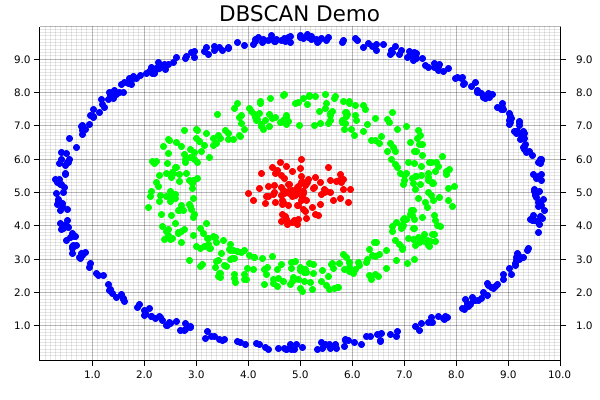
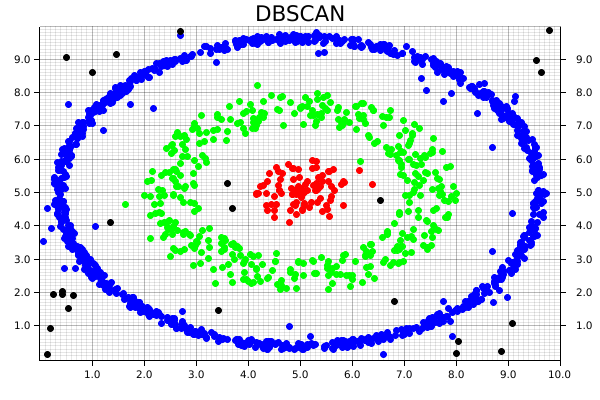
Updates with addl prose, and adds in a stand-alone KMeans comparison with subplots

diff --git a/code/examples/clustering_comparison.rs b/code/examples/clustering_comparison.rs
@@ -1,0 +1,148 @@
+use code::*;
+// ANCHOR: libraries
+// Import the linfa prelude and KMeans algorithm
+use linfa::prelude::*;
+use linfa_clustering::{Dbscan, KMeans};
+// We'll build our dataset on our own using ndarray and rand
+use ndarray::prelude::*;
+// Import the plotters crate to create the scatter plot
+use plotters::prelude::*;
+use rand::prelude::*;
+// ANCHOR_END: libraries
+
+fn main() {
+
+    // ANCHOR: build_chart_base
+    let chart_dims = (900, 400);
+    let root = BitMapBackend::new("../src/clustering_comparison.png", chart_dims).into_drawing_area();
+    root.fill(&WHITE).unwrap();
+    let areas = root.split_by_breakpoints([chart_dims.0 / 2 ], [chart_dims.1]);
+
+    let x_lim = 0.0..10.0f32;
+    let y_lim = 0.0..10.0f32;
+
+    let mut ctx_a = ChartBuilder::on(&areas[0])
+        .set_label_area_size(LabelAreaPosition::Left, 40) // Put in some margins
+        .set_label_area_size(LabelAreaPosition::Right, 40)
+        .set_label_area_size(LabelAreaPosition::Bottom, 40)
+        .caption("DBSCAN", ("sans-serif", 20)) // Set a caption and font
+        .build_cartesian_2d(x_lim.clone(), y_lim.clone())
+        .expect("Couldn't build our ChartBuilder");
+    
+    ctx_a.configure_mesh().draw().unwrap();
+    let root_area_a = ctx_a.plotting_area();
+    
+    let mut ctx_b = ChartBuilder::on(&areas[1])
+        .set_label_area_size(LabelAreaPosition::Left, 40) // Put in some margins
+        .set_label_area_size(LabelAreaPosition::Right, 40)
+        .set_label_area_size(LabelAreaPosition::Bottom, 40)
+        .caption("KMeans", ("sans-serif", 20)) // Set a caption and font
+        .build_cartesian_2d(x_lim, y_lim)
+        .expect("Couldn't build our ChartBuilder");
+
+
+    ctx_b.configure_mesh().draw().unwrap();
+    let root_area_b = ctx_b.plotting_area();
+
+    // Plot space for both algos should be set up by this point
+
+    // Now going to creat data that will be shared for both
+    let circle: Array2<f32> = create_circle([5.0, 5.0], 1.0, 100); // Cluster 0
+    let donut_1: Array2<f32> = create_hollow_circle([5.0, 5.0], [2.0, 3.0], 400); // Cluster 1
+    let donut_2: Array2<f32> = create_hollow_circle([5.0, 5.0], [4.5, 4.75], 1000); // Cluster 2
+    let noise: Array2<f32> = create_square([5.0, 5.0], 10.0, 100); // Random noise
+
+    let data = ndarray::stack(Axis(0), &[circle.view(), donut_1.view(), donut_2.view(), noise.view()])
+        .expect("An error occurred while stacking the dataset");
+
+    // DBSCAN STARTS HERE
+
+    let min_points = 20;
+    let clusters = Dbscan::params(min_points).tolerance(0.6).transform(&data);
+    println!("{:#?}", clusters);
+
+    check_array_for_plotting(&circle); // Panics if that's not true
+
+    for i in 0..data.shape()[0] {
+        let coordinates = data.slice(s![i, 0..2]);
+
+        let point = match clusters[i] {
+            Some(0) => Circle::new(
+                (coordinates[0], coordinates[1]),
+                3,
+                ShapeStyle::from(&RED).filled(),
+            ),
+            Some(1) => Circle::new(
+                (coordinates[0], coordinates[1]),
+                3,
+                ShapeStyle::from(&GREEN).filled(),
+            ),
+            Some(2) => Circle::new(
+                (coordinates[0], coordinates[1]),
+                3,
+                ShapeStyle::from(&BLUE).filled(),
+            ),
+            // Making sure our pattern-matching is exhaustive
+            _ => Circle::new(
+                (coordinates[0], coordinates[1]),
+                3,
+                ShapeStyle::from(&BLACK).filled(),
+            ),
+        };
+
+        root_area_a
+            .draw(&point)
+            .expect("An error occurred while drawing the point!");
+    }
+    // ANCHOR_END: plot_points
+
+    // KMEANS STARTS HERE
+
+    let dataset = DatasetBase::from(data);
+    let rng = thread_rng(); // Random number generator
+    let n_clusters = 3;
+    let model = KMeans::params_with_rng(n_clusters, rng)
+        .max_n_iterations(200)
+        .tolerance(1e-5)
+        .fit(&dataset)
+        .expect("Error while fitting KMeans to the dataset");
+
+    let dataset = model.predict(dataset);
+
+    for i in 0..dataset.records.shape()[0] {
+        let coordinates = dataset.records.slice(s![i, 0..2]);
+
+        let point = match dataset.targets[i] {
+            0 => Circle::new(
+                (coordinates[0], coordinates[1]),
+                3,
+                ShapeStyle::from(&RED).filled(),
+            ),
+            1 => Circle::new(
+                (coordinates[0], coordinates[1]),
+                3,
+                ShapeStyle::from(&GREEN).filled(),
+            ),
+
+            2 => Circle::new(
+                (coordinates[0], coordinates[1]),
+                3,
+                ShapeStyle::from(&BLUE).filled(),
+            ),
+            // Making sure our pattern-matching is exhaustive
+            _ => Circle::new(
+                (coordinates[0], coordinates[1]),
+                3,
+                ShapeStyle::from(&BLACK).filled(),
+            ),
+        };
+
+        root_area_b
+            .draw(&point)
+            .expect("An error occurred while drawing the point!");
+    }
+
+
+}
+
+

diff --git a/code/examples/dbscan.rs b/code/examples/dbscan.rs
@@ -11,19 +11,24 @@ use plotters::prelude::*;
 
 fn main() {
     // ANCHOR: create_circles
+    // The goal is to be able to find each of these as distinct, and exclude some of the noise
     let circle: Array2<f32> = create_circle([5.0, 5.0], 1.0, 100); // Cluster 0
     let donut_1: Array2<f32> = create_hollow_circle([5.0, 5.0], [2.0, 3.0], 400); // Cluster 1
-    let donut_2: Array2<f32> = create_hollow_circle([5.0, 5.0], [4.5, 4.75], 400); // Cluster 2
+    let donut_2: Array2<f32> = create_hollow_circle([5.0, 5.0], [4.5, 4.75], 1000); // Cluster 2
+    let noise: Array2<f32> = create_square([5.0, 5.0], 10.0, 100); // Random noise
 
-    let data = ndarray::stack(Axis(0), &[circle.view(), donut_1.view(), donut_2.view()])
+    let data = ndarray::stack(Axis(0), &[circle.view(), donut_1.view(), donut_2.view(), noise.view()])
         .expect("An error occurred while stacking the dataset");
+    // ANCHOR_END: create_circles
 
-    // ANCHOR: create_model
-    // let dataset = DatasetBase::from(data);
+    // ANCHOR: create_and_run_model
+    // Compared to linfa's KMeans algorithm, the DBSCAN implementation can operate
+    // directly on an ndarray `Array2` data structure, so there's no need to convert it
+    // into the linfa-native `Dataset` first.
     let min_points = 20;
-    let clusters = Dbscan::params(min_points).tolerance(0.95).transform(&data);
+    let clusters = Dbscan::params(min_points).tolerance(0.6).transform(&data);
     println!("{:#?}", clusters);
-    // ANCHOR_END: create_model
+    // ANCHOR_END: create_and_run_model
 
     // ANCHOR: build_chart_base
     let root = BitMapBackend::new("../src/dbscan.png", (600, 400)).into_drawing_area();
@@ -36,7 +41,7 @@ fn main() {
         .set_label_area_size(LabelAreaPosition::Left, 40) // Put in some margins
         .set_label_area_size(LabelAreaPosition::Right, 40)
         .set_label_area_size(LabelAreaPosition::Bottom, 40)
-        .caption("DBSCAN Demo", ("sans-serif", 25)) // Set a caption and font
+        .caption("DBSCAN", ("sans-serif", 25)) // Set a caption and font
         .build_cartesian_2d(x_lim, y_lim)
         .expect("Couldn't build our ChartBuilder");
     // ANCHOR_END: build_chart_base
@@ -72,10 +77,11 @@ fn main() {
                 ShapeStyle::from(&BLUE).filled(),
             ),
             // Making sure our pattern-matching is exhaustive
+            // Note that we can define a custom color using RGB
             _ => Circle::new(
                 (coordinates[0], coordinates[1]),
                 3,
-                ShapeStyle::from(&BLACK).filled(),
+                ShapeStyle::from(&RGBColor(255,255,255)).filled(),
             ),
         };
 
@@ -84,17 +90,4 @@ fn main() {
             .expect("An error occurred while drawing the point!");
     }
     // ANCHOR_END: plot_points
-}
-
-// Check the array has the correct shape for plotting (Two-dimensional, with 2 columns)
-fn check_array_for_plotting(arr: &Array2<f32>) -> bool {
-    if (arr.shape().len() != 2) || (arr.shape()[1] != 2) {
-        panic!(
-            "Array shape of {:?} is incorrect for 2D plotting!",
-            arr.shape()
-        );
-        // false
-    } else {
-        true
-    }
 }

diff --git a/code/examples/kmeans.rs b/code/examples/kmeans.rs
@@ -17,7 +17,7 @@ fn main() {
     let square_3 = create_square([3.0, 8.0], 1.0, 150); // Cluster 3
     let square_4 = create_square([5.0, 5.0], 9.0, 300); // A bunch of noise across them all
 
-    let combined_squares = ndarray::stack(
+    let data = ndarray::stack(
         Axis(0),
         &[
             square_1.view(),
@@ -30,7 +30,7 @@ fn main() {
     //ANCHOR_END: create_squares
 
     // ANCHOR: create_model
-    let dataset = DatasetBase::from(combined_squares);
+    let dataset = DatasetBase::from(data);
     let rng = thread_rng(); // Random number generator
     let n_clusters = 3;
     let model = KMeans::params_with_rng(n_clusters, rng)
@@ -108,15 +108,3 @@ fn main() {
     // ANCHOR_END: plot_points
 }
 
-// Check the array has the correct shape for plotting (Two-dimensional, with 2 columns)
-fn check_array_for_plotting(arr: &Array2<f32>) -> bool {
-    if (arr.shape().len() != 2) || (arr.shape()[1] != 2) {
-        panic!(
-            "Array shape of {:?} is incorrect for 2D plotting!",
-            arr.shape()
-        );
-        // false
-    } else {
-        true
-    }
-}

diff --git a/code/src/lib.rs b/code/src/lib.rs
@@ -55,3 +55,16 @@ pub fn create_hollow_circle(
 
     data
 }
+
+// Check the array has the correct shape for plotting (Two-dimensional, with 2 columns)
+pub fn check_array_for_plotting(arr: &Array2<f32>) -> bool {
+    if (arr.shape().len() != 2) || (arr.shape()[1] != 2) {
+        panic!(
+            "Array shape of {:?} is incorrect for 2D plotting!",
+            arr.shape()
+        );
+        // false
+    } else {
+        true
+    }
+}

diff --git a/src/4_dbscan.md b/src/4_dbscan.md
@@ -1,42 +1,52 @@
-### Using DBSCAN with `linfa-clustering`
+## Using DBSCAN with `linfa-clustering`
 
- 
+### What is the DBSCAN algorithm?
+
+The DBSCAN algorithm (Density-Based Spatial Clustering Algorithm with Noise) was originally published in [1996](https://citeseerx.ist.psu.edu/viewdoc/summary?doi=10.1.1.121.9220), and has since become one of the most popular and well-known clustering algorithms available. 
+
+
+### Comparison with KMeans
+
+Before getting into the code, let's examine how these differences in approach plays out on different types of data. In the images below, both the DBSCAN and KMeans algorithms were applied to the same dataset. The KMeans algorithm was manually set to find 3 clusters (remember, DBSCAN automatically calculates the number of clusters based on the provided parameters).
+
+<img src="clustering_comparison.png" alt="Comparison" width=600px height=300px align="middle">
+
+This example[^1] demonstrates two of the major strengths of DBSCAN over an algorithm like KMeans; it is able to automatically detect the number of clusters that meet a set of given parameters. It's not that DBSCAN doesn't require information about the dataset, but rather that the information it does require differs from that of KMeans.
+
+DBSCAN also does a great job at finding clustering that are spatially contiguous, but not confined to single region. The "and Noise" part of the algorithm's name comes in. Especially in real-world data, there's often data that won't fit well into a given cluster. These can be outliers or points that don't demonstrate good alignment with any of the main clusters. DBSCAN doesn't require that they do. Instead, it will simply give them a cluster label of `None` (graphically, these are the black points). 
+
+Comparatively, KMeans will take into account each point in the dataset, which means outliers can negatively affect the local optimal location for a given cluster in order to accommodate them. 
+
+### Using DSBCAN with `linfa`
+
+Compared to 
 ```rust,no_run
-{{#include ../code/examples/kmeans.rs:create_squares}}
+{{#include ../code/examples/dbscan.rs:libraries}}
 ```
 
+Instead of having a several higher-density clusters each in different area, we'll take advantage of DBSCAN's ability to follow spatially-contiguous, but non-local, clusters by building our data out of both filled and hollow circles, with some random noise tossed in as well. The end goal should be for us to be able to re-find each of these clusters, and exclude some of the noise!
 
 ```rust,no_run
-{{#include ../code/examples/kmeans.rs:create_model}}
+{{#include ../code/examples/dbscan.rs:create_circles}}
 ```
-
+Compared to `linfa`'s KMeans algorithm, the DBSCAN implementation can operate directly on a ndarray `Array2` data structure, so there's no need to convert it into the `linfa`-native `Dataset` type first. It's also worth pointing out that choosing the chosen parameters often take some experimentation and tuning before they produce results that actually make sense. This is one of the areas where data visualization can be really important; it is helpful in developing some physical intuition about your data set and understand how your choice of hyperparameters will affect how an algorithm works.  
 
 ```rust,no_run
-{{#include ../code/examples/kmeans.rs:run_model}}
+{{#include ../code/examples/dbscan.rs:create_and_run_model}}
 ```
+We'll skip over setting up `ChartBuilder` struct and drawing areas from the `plotters` crate,
+since it's exactly the same as in the [KMeans](./3_kmeans.md) example. 
+
+Remember how DBSCAN is an algorithm that can exclude noise? That's particularly important for the pattern-matching in this case, since we're almost guaranteed to end up with some values that don't fit into any of our given clusters. Since we generated an artificial dataset, we know the number of clusters that should be generated. However, that won't always be the case. In that situation, we could instead examine the number of clusters afterwards, create a colormap using custom RGB colors which matches the highest number of clusters, and plot it that way.
 
 ```rust,no_run
-{{#include ../code/examples/kmeans.rs:build_chart_base}}
+{{#include ../code/examples/dbscan.rs:plot_points}}
 ```
 
-
-```rust,no_run
-{{#include ../code/examples/kmeans.rs:configure_chart}}
-```
-
-
-```rust,no_run
-{{#include ../code/examples/kmeans.rs:run_check_for_plotting}}
-```
-
-
-```rust,no_run
-{{#include ../code/examples/kmeans.rs:plot_points}}
-```
-
+As a result, we then get the following chart, where each cluster is uniquely identified, and some of the random noise associated with the dataset is discarded.  
 
 ![DBSCAN](dbscan.png)
 
-Now we can compare these results to the same dataset that is clustered by the KMeans algorithm. In this case, the KMeans algorithm was manually set to find 3 clusters (remember, DBSCAN automatically calculates the number of clusters based on the provided parameters).
 
-![KMEANS/DBSCAN Comparison](kmeans_dbscan_comparison.png)
+---
+[^1]: This code for this comparison is actually separate from the main DBSCAN example. It can be found at `code/examples/clustering_comparison.rs`.
